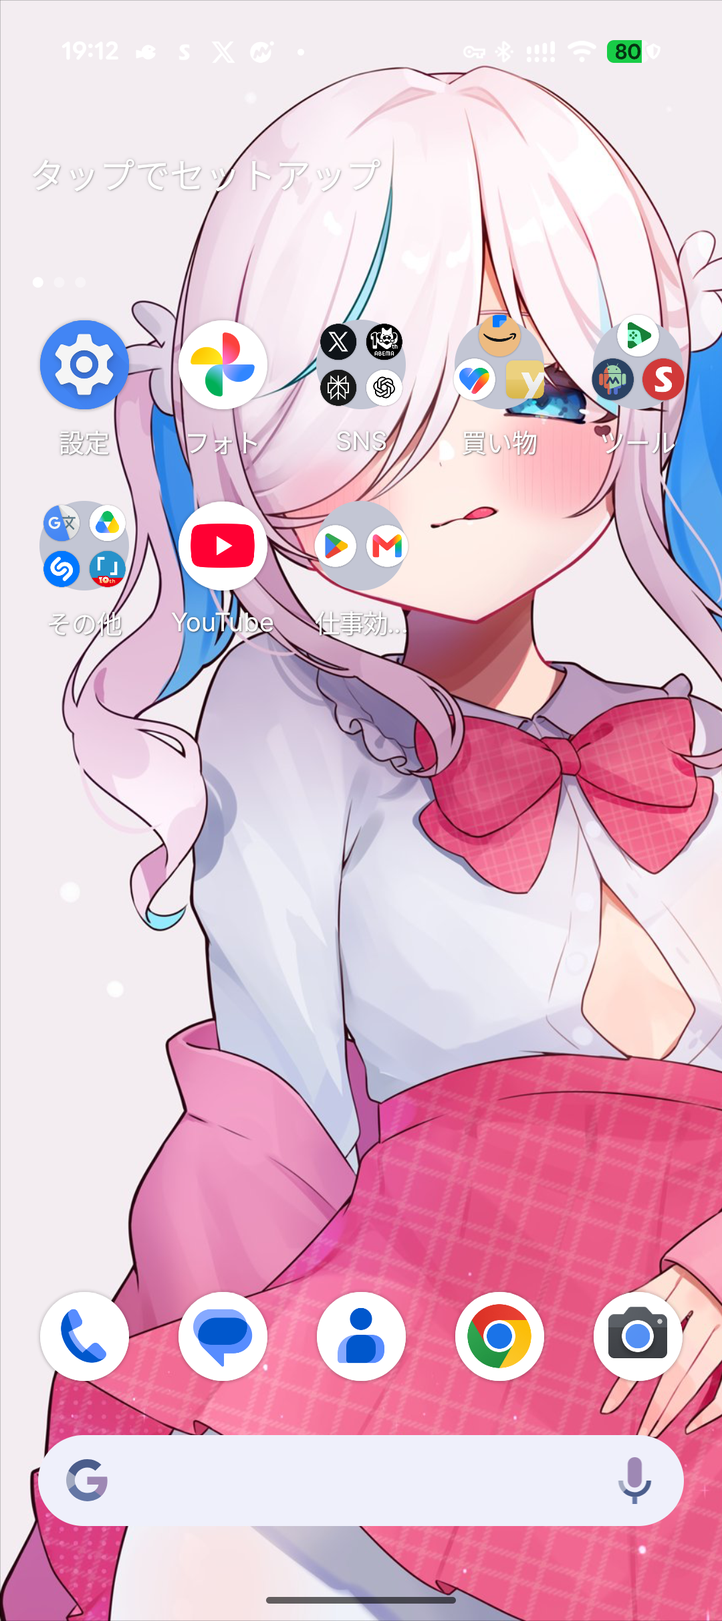
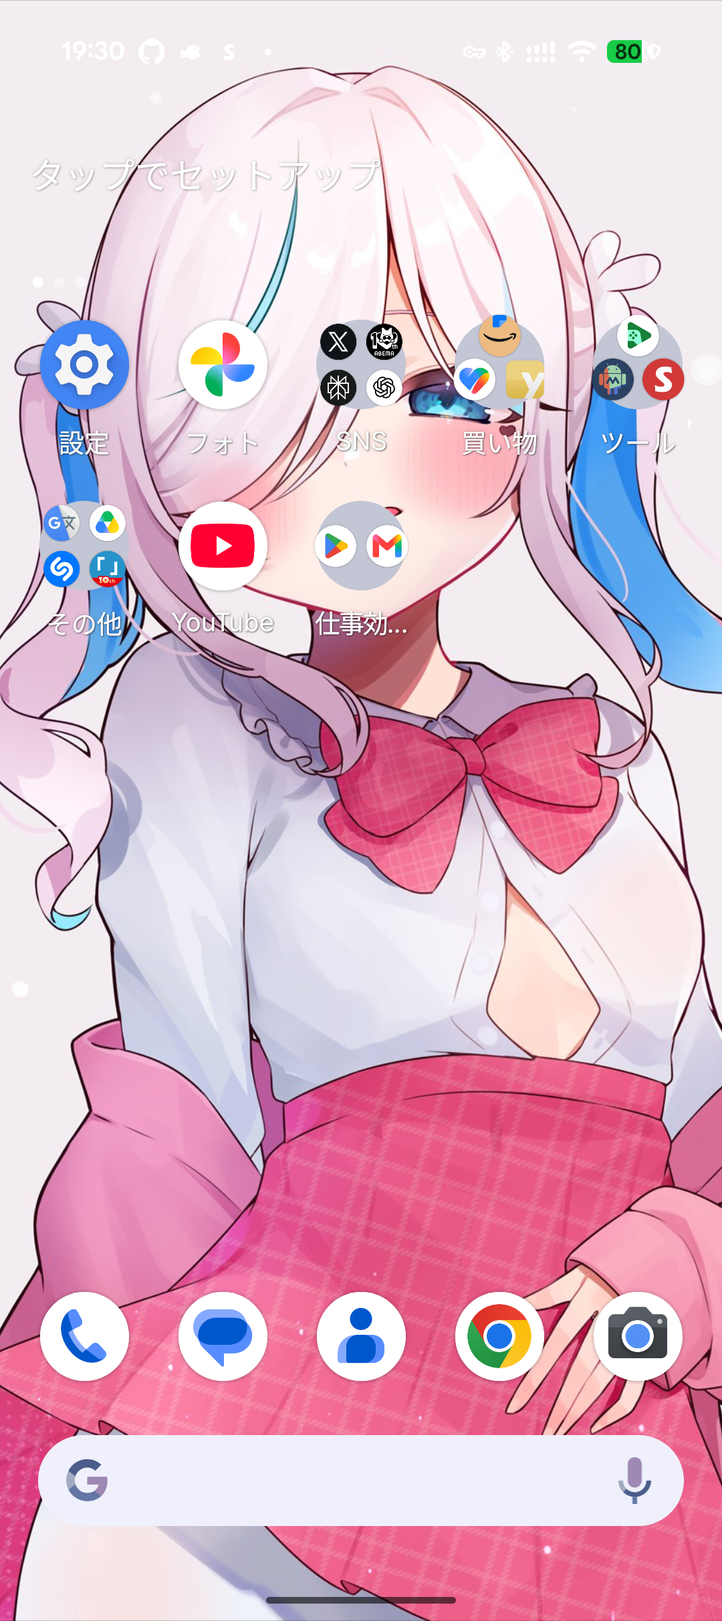
audit(241): apply re-audit update and single-page after evidence
- Auditor re-audit at head ccdb4c3389: all 12 ACs PASS, validator PASS,
  new CI run 34110363181 (final-status green, 954 tests).
- Replace duplicated 237-after-page2.png with the true post-apply state:
  after GLOBAL_COMPACT_V2 applied, the launcher holds a single workspace
  page (favorites: exactly one screen, 8 items, folders SNS/買い物/ツール
  compacted onto it) — verified directly from the device DB, so no
  separate page-2 capture exists to take.

diff --git a/docs/assessment/pr-241-global-compact-v2.md b/docs/assessment/pr-241-global-compact-v2.md
@@ -1,77 +1,76 @@
 # High-risk audit: PR #241 GLOBAL_COMPACT_V2 — existing 1×1 folders compact across pages (spec 237)
 
-> Status: accepted — GO for merge on this record, with AC-10 (device evidence) recorded as an open item in Findings
+> Status: accepted — round-2 GO. Round 1 audited `eba38d573dce45fe3c10c778eb8813f7cce78547` with AC-10 as the single open item; this re-audit covers the two follow-up commits and closes AC-10 with committed on-device evidence (one evidence-quality caveat recorded in Findings)
 > Audit date: 2026-09-07
 
-- Auditor: Independent audit session (general-purpose subagent), not the implementing session — no involvement in the implementation; independent re-read of the diff and independent re-execution of the verification surface
+- Auditor: Independent audit session (general-purpose subagent), not the implementing session — the same independent session performed round 1 (audited head `eba38d573dce45fe3c10c778eb8813f7cce78547`) and this round-2 re-audit of the delta through the new head; no involvement in the implementation
 - PR: https://github.com/nunu1733/NunuLauncher/pull/241
-- Head SHA: eba38d573dce45fe3c10c778eb8813f7cce78547
-- CI run: https://github.com/nunu1733/NunuLauncher/actions/runs/34088182723 (`pull_request` `ci.yml` run verified via `gh run view`: completed, conclusion `success`, `head_sha = eba38d573dce45fe3c10c778eb8813f7cce78547`, head branch `agent/issue-237-global-compact-v2-spec`; `final-status` green, and the source jobs `organizer-unit-tests`, `check-style`, `build-debug-apk`, `validate-repo-contract`, plus all seven `organizer-instrumentation-*` lanes executed and passed — see `gh pr checks 241` output in Executed test surface)
-- Criteria: specs/237-global-compact-v2-folder-relocation/spec.md AC-1 AC-2 AC-3 AC-4 AC-5 AC-6 AC-7 AC-8 AC-9 AC-11 AC-12
+- Head SHA: ccdb4c338946115276acefac43eadda108aa066f
+- CI run: https://github.com/nunu1733/NunuLauncher/actions/runs/34110363181 (`pull_request` `ci.yml` run verified via `gh run view`: completed, conclusion `success`, `head_sha = ccdb4c338946115276acefac43eadda108aa066f`, head branch `agent/issue-237-global-compact-v2-spec`; `final-status` green, and the source jobs `organizer-unit-tests`, `check-style`, `build-debug-apk`, `validate-repo-contract`, plus all seven `organizer-instrumentation-*` lanes executed and passed — see `gh pr checks 241` output in Executed test surface)
+- Criteria: specs/237-global-compact-v2-folder-relocation/spec.md AC-1 AC-2 AC-3 AC-4 AC-5 AC-6 AC-7 AC-8 AC-9 AC-10 AC-11 AC-12
 - Criteria: specs/182-layout-strategy-catalog/spec.md FR-016 AC-4 AC-5 AC-9 AC-15
 - Criteria: docs/adr/0012-versioned-layout-strategy-catalog.md ADR-0012
 - Criteria: docs/adr/0007-authoritative-organization-policy-sources.md ADR-0007
 
 ## Scope
 
-Audited the PR head commit `eba38d573dce45fe3c10c778eb8813f7cce78547` (branch `agent/issue-237-global-compact-v2-spec`, three commits `f998da7dae` → `fbc5f3fca7` → `eba38d573d`; local checkout was at exactly this commit with a clean working tree; verified via `git status` and `git log`). The diff (`gh pr diff 241`) touches 18 files:
+The PR now spans five commits; this record audits the head `ccdb4c338946115276acefac43eadda108aa066f` (local checkout verified at exactly this commit, clean tree).
 
-- Production planning (`lawnchair/src/app/lawnchair/organizer/planning/`): `LayoutStrategyRegistry.kt` (new `GLOBAL_COMPACT_V2` `StrategyId` + `StrategyDefinition` — eligible = 1×1 `APPLICATION`/`DEEP_SHORTCUT`/top-level `FOLDER` workspace units, `CAPTURED_VISUAL_GLOBAL`, `CAPTURED_THEN_NEW`, `TOP_LEFT_ROW_MAJOR`; new `StrategyDefinition.strategyFixes(item)` predicate = `unitOrder != CANONICAL_TIE_BREAK && !eligibleUnitFilter(item)`); `FullRunExecution.kt` (V1/V2 share one `executeGlobalCompact`; delta = formation candidates now `filter { it.kind != ItemKind.FOLDER }` and moved workspace units report `PlacementCode.FOLDER_UNIT` when `kind == FOLDER`).
-- Bundle/rules: `PolicyModels.kt` (`POLICY_BUNDLE_VERSION` `organization-policy-v2.4` → `organization-policy-v2.5`), `BuiltInOrganizerPolicyBundleSource.kt` (`runtimeSupported` gains `GLOBAL_COMPACT_V2`; V1 kept; default `CANONICAL_PAGE_COMPACT_V1` unchanged).
-- UI: `ManualOrganizationPreferences.kt` (V2 name/description mapping) and `lawnchair/res/values{,-ja}/strings.xml` (new `organization_strategy_global_v2_*`; V1 copy updated to "apps only" / 既存のフォルダは移動しません).
-- Tests: `GlobalCompactStrategyTest.kt` (6 new V2 cases + additive helper refactors with default parameters; pre-existing V1 case bodies unmodified), `CrossStrategyCorpusTest.kt` (derives `.idempotence` fixtures from every formation fixture with `ContractCheck.IDEMPOTENCE` and pins their existence via `formationFixturesCarryTheIdempotenceCheck`), harness `PostPlanMaterializer.kt` (materialized synthetic folder → `ExistingRole.Movable`; materialized `FolderMember` items → `ExistingRole.Preserved`), harness `Oracle.kt` (`checkIdempotence.expectedReason` gains a `strategyFixes` → `STRATEGY_PRESERVED` branch after the `NON_TARGET`/`STRUCTURAL` branches), `PlannerContractHarnessTest.kt` (`materializationPreservesOriginalRoles` expects `Movable` for the synthetic folder), `BuiltInOrganizerPolicyBundleSourceTest.kt` (v2.5), `StrategyPickerInstrumentationTest.kt` (V2 row in display and click-action assertions).
-- Docs: `CONTEXT.md` (strategy-fixed unit term), `docs/product/requirements.md` (FR-016 traceability), new `specs/237-global-compact-v2-folder-relocation/spec.md` + `plan.md`.
+Round-1 scope (audited at `eba38d573d`, 3 commits `f998da7dae` → `fbc5f3fca7` → `eba38d573d`; full detail in the round-1 record history below): the versioned successor strategy `GLOBAL_COMPACT_V2` (`LayoutStrategyRegistry` + shared `executeGlobalCompact`), bundle `organization-policy-v2.5`, truthful V1/V2 picker copy (en/ja), harness alignment to production recapture semantics (`PostPlanMaterializer`, `Oracle.checkIdempotence`, `CrossStrategyCorpusTest` derived formation-idempotence fixtures), picker instrumentation row, spec 237 + plan, `CONTEXT.md`/`requirements.md`. No file under `organizer/application/`, Launcher3 provider/model/writer, backup, or deck changed; golden corpus resources byte-identical; `determinePreservation` precedence unchanged.
 
-Runtime write-path audit: no file under `organizer/application/`, Launcher3 `provider/`/`model/`/writer, backup, or deck changed; no DB schema, recovery, or writer-path change. Folder relocation is emitted as an ordinary workspace `WorkspaceTarget` through the existing writer admission path (kind-agnostic), so member rows and folder `favorites` container references are structurally untouched by the diff. Selection store schema stays v1. `git diff` over `tests/unit/resources/` is empty — the golden corpus directory `tests/unit/resources/planner-golden-corpus/` including `sha256.txt` is byte-identical to `main`. `determinePreservation` in `PlanningPlacement.kt` (spec 10 precedence `NON_TARGET` > `STRUCTURAL`) is not in the diff and is unchanged, as is production `integration/FullTargetSetMaterializer.kt` (workspace `FOLDER` → `Movable`, `FolderMember` → `Preserved`, verified by reading the source).
+Round-2 delta under audit (verified with `git show`):
+
+- `47090e0f4d` — docs-only: committed the round-1 audit record (`docs/assessment/pr-241-global-compact-v2.md`). No source change.
+- `ccdb4c3389` — code + evidence, three parts:
+  1. **Diagnostics allowlist fix** (`lawnchair/src/app/lawnchair/organizer/diagnostics/model/RunEvent.kt`): `RunVersions.APPROVED_VERSIONS` gains `GLOBAL_COMPACT_V2`. Root cause verified by reading the code: `PlanningProjection.project` (`diagnostics/projection/PlanningProjection.kt:56`) constructs `RunVersions.create(strategyVersion = …)`, and `RunEvent.kt` `require(value in APPROVED_VERSIONS)` throws `IllegalArgumentException` for unapproved IDs — so every on-device `GLOBAL_COMPACT_V2` run aborted right after capture (run coroutine → `State.Cancelled`) while all planner/picker unit tests passed, because only the runtime diagnostics path constructs `RunVersions`. The one-line fix is exactly the ADR-0012 rule (a new strategy ID extends the approved-identifier set).
+  2. **Anti-drift contract test** (`tests/unit/app/lawnchair/organizer/diagnostics/model/RunEventSerializationTest.kt`): new `everyRegisteredStrategyIsAnApprovedVersionIdentifier` iterates `LayoutStrategyRegistry.acceptedIds` and requires `RunVersions.create(strategyVersion = id.value)` to succeed for each, pinning allowlist ⊇ registry so this drift cannot recur (class 19/19 green).
+  3. **AC-10 device evidence** (`docs/assessment/ac14-device-evidence/237-*.png`, six files): before pages 1–3 (2026-09-06 case rebuilt on a Pixel 9a: sparse front page, folder-dominated pages 2–3), V2 preview confirmation, applied result pages.
+
+Runtime write-path audit of the delta: `RunEvent.kt` is diagnostics-only (no planner/writer/DB change); the PNGs are documentation artifacts. All round-1 conclusions (V1 byte-equivalence, idempotence proof, bundle coherence, harness/production alignment) apply verbatim to this head because the source delta since `eba38d573d` is confined to the diagnostics allowlist, one test file, docs, and PNGs (`git diff eba38d573d..ccdb4c3389 -- lawnchair/src tests/unit` touches only `diagnostics/model/RunEvent.kt` and `diagnostics/model/RunEventSerializationTest.kt`).
 
 ## Criteria check
 
 Spec 237 (`specs/237-global-compact-v2-folder-relocation/spec.md`):
 
-- **AC-1 — PASS.** The spec is accepted (frontmatter `status: accepted`), and the Versioning decision section records the versioned-successor choice with the spec 182 / ADR-0012 rationale.
-- **AC-2 — PASS.** `GlobalCompactStrategyTest.v2ExistingFolderJoinsCrossPageCompaction` (2-page: existing 1×1 folder on the later page relocates into the earlier page's free cell as `Moved{FOLDER_UNIT}`, members/rank/profile/naming asserted unchanged) and `v2ThreePageFolderHeavyLayoutFillsEarlierPagesFirst` (3-page device-shape fixture: folders f1/f2 fill page 1 first, later-page app follows, `crossPageMoves == 3`, no page deleted) both run through the public seam `OrganizationPlanner.plan`; both green (11/11 in the class, 0 failures).
-- **AC-3 — PASS.** The same fixtures assert no movable 1×1 top-level unit remains behind while an earlier placeable cell exists; `v2NonSquareMovableUnitsStayStrategyPreserved` and `v2NonUnitSpanFolderIsStrategyPreserved` pin the eligible-set boundary; `CrossStrategyCorpusTest` exercises V2 over the full shared corpus via the registry.
-- **AC-4 — PASS.** Folder identity, member list/rank, and profile isolation are asserted at plan level (`v2ExistingFolderJoinsCrossPageCompaction`: member keeps `FolderMember(FolderRef, rank)` target and its preserve reason; folder id/naming/members unchanged). The diff contains no writer/application change, so the "folder move = folder row cell/screen update only through the existing writer path" property holds by construction of the change set (apply code is kind-agnostic for workspace units); the apply-module suite ran green as part of the 953-test run.
-- **AC-5 — PASS.** `v2FormationThenApplyThenRecaptureThenReplanIsAnEmptyDiff` directly pins the formation → apply → recapture → replan transition with production recapture roles (materialized folder `Movable`, members `Preserved`), asserts the replan has zero `Moved`, no new folders, the formed folder reclaims its cell as `Preserved{ALREADY_CANONICAL}` (not `STRATEGY_PRESERVED`), and the member reports `Preserved{NON_TARGET}`. `CrossStrategyCorpusTest` derives `.idempotence` fixtures from every formation fixture for every strategy and pins their existence; determinism/idempotence property suite green (3/3, incl. `formationFixturesCarryTheIdempotenceCheck`). The spec's 4-step fixed-point proof matches the shipped code: (1) fixed set is re-marked occupied at captured cells every run (`strategyFixed` loop), (2) `allocateCapturedThenNew` first-fit in global captured visual order restores the consumption order after materialization, (3) formation candidates exclude `FOLDER` and recaptured members are `Preserved`/non-candidates, so replan forms no folder.
-- **AC-6 — PASS.** Preview projection is strategy-agnostic: V2 emits `Disposition.Moved(PlacementCode.FOLDER_UNIT)` for relocated folders (asserted in the V2 plan tests), the projector's cross-page counting is covered by `PlanPreviewProjectorTest.strategyConsequenceCountsSplitCrossPageMovesAndStrategyPreservedRows`, and the `FOLDER_UNIT` → `moveReasonFolderUnit` wording path is pre-existing and tested (`OrganizationPreviewContentTest`). No preview code changed.
-- **AC-7 — PASS.** `git diff` over `tests/unit/resources/planner-golden-corpus/` is empty (`sha256.txt` unmodified); `GoldenOracleCorpusTest` ran unmodified and green (1/1, digest-verified) on the audited commit; the 5 pre-existing V1 test cases in `GlobalCompactStrategyTest` are body-unmodified and green; the shared-executor deltas are provably no-ops for V1 (V1's filter already excludes `FOLDER` from both the formation-candidate map and the mover stream, so the new `kind != FOLDER` filter and the `FOLDER_UNIT` code selection are unreachable under V1).
-- **AC-8 — PASS.** `BuiltInOrganizerPolicyBundleSourceTest` asserts `organization-policy-v2.5` and `runtimeSupportedCatalogDeclaresOnlyImplementedStrategiesWithTheDefault` enforces `runtimeSupported == LayoutStrategyRegistry.acceptedIds` (set equality, not just subset) and `default ∈ runtimeSupported` — 6/6 green.
-- **AC-9 — PASS.** Localized copy added in `values/` and `values-ja/` (V1 name now "Compact across screens (apps only)" / ページ間でコンパクト（アプリのみ） with description "Existing folders stay where they are." / 既存のフォルダは移動しません — truthful to V1 behavior; V2 "Moves apps and folders from later screens into earlier free spaces."). `StrategyPickerInstrumentationTest` gained the V2 row in both its displayed and click-action assertions, and CI executed it on the audited commit: the `organizer-instrumentation-issue52-tests` job's gradle invocation names `StrategyPickerInstrumentationTest` explicitly and the job log shows "Finished 41 tests on emulator-5554" with the job green.
-- **AC-10 — OPEN (not met yet).** Device evidence (before/preview/after screenshots of the 2026-09-06 case) is not recorded in the Issue or PR; the PR body itself marks it 未記録 (要 follow-up). The corresponding 3-page fixture exists and passes (`v2ThreePageFolderHeavyLayoutFillsEarlierPagesFirst`), but the screenshot evidence itself must not be fabricated — tracked as the one open acceptance item.
-- **AC-11 — PASS.** The downgrade/fail-closed path is covered by the existing strategy-generic selection-layer tests, all green: `LayoutStrategySelectionStoreTest.unsupportedStrategyIsRejectedAtWriteTimeWithoutTouchingStorage` (8/8 class green) and `OrganizationInputComposerTest` unsupported-selection → `OrganizationInputComposition.NotReady` (18/18 green). A V2-selected device downgraded to a v2.4 binary is an instance of exactly this "selection outside the active bundle's runtime-supported set" path; there is no V2-specific v2.4-binary fixture (noted in Findings).
-- **AC-12 — PASS** (by this record). The PR carries `risk: layout-data`, the verified successful `final-status` CI run on the audited head, and — with the file you are reading — the independent audit record in `docs/assessment/`.
+- **AC-1 — PASS.** Spec accepted; versioned-successor decision recorded with rationale (round-1 finding, unchanged at this head).
+- **AC-2 — PASS.** `GlobalCompactStrategyTest.v2ExistingFolderJoinsCrossPageCompaction` and `v2ThreePageFolderHeavyLayoutFillsEarlierPagesFirst` run through the public seam `OrganizationPlanner.plan`; green at this head (suite 954/954). Additionally, the round-2 on-device run exercised the full user path end-to-end (capture → preview → apply) after the allowlist fix, which round 1 could not demonstrate.
+- **AC-3 — PASS.** The no-gaps-behind property is pinned by the same fixtures plus the non-1×1 boundary tests; `CrossStrategyCorpusTest` exercises V2 over the full shared corpus via the registry.
+- **AC-4 — PASS.** Folder identity/members/rank/profile assertions at plan level; no writer/application change in the entire PR diff, so folder relocation rides the existing workspace-unit write path (folder row cell/screen update semantics unchanged; member rows and container references structurally untouched).
+- **AC-5 — PASS.** `v2FormationThenApplyThenRecaptureThenReplanIsAnEmptyDiff` pins formation → apply → recapture → replan as an empty diff with production recapture roles (formed folder `ALREADY_CANONICAL`, member `NON_TARGET`); corpus-derived `.idempotence` fixtures cover every strategy; the spec's 4-step fixed-point proof matches the shipped executor. The on-device preview's 新しいフォルダ: 1個 confirms formation occurs in practice and the suite owns its replan stability.
+- **AC-6 — PASS.** Compositional: V2 emits `Moved{FOLDER_UNIT}` (plan-level tests); the strategy-agnostic projector's cross-page counting and the FOLDER_UNIT → `moveReasonFolderUnit` wording are pre-existing and tested. The device preview screenshot confirms the user-visible rows: four folders listed as 「フォルダ単位で移動」 with ページをまたいで移動: 5件.
+- **AC-7 — PASS.** Golden corpus `tests/unit/resources/planner-golden-corpus/` (incl. `sha256.txt`) untouched since `main` (verified again on the round-2 delta diff); `GoldenOracleCorpusTest` green; the five pre-existing V1 test bodies unmodified; the shared-executor deltas remain provably no-ops for V1.
+- **AC-8 — PASS.** `BuiltInOrganizerPolicyBundleSourceTest` asserts `organization-policy-v2.5` and `runtimeSupported == LayoutStrategyRegistry.acceptedIds` set equality with `default ∈ runtimeSupported`; green.
+- **AC-9 — PASS.** Truthful localized V1/V2 copy (en/ja); `StrategyPickerInstrumentationTest` V2 row executed in CI's `organizer-instrumentation-issue52-tests` lane (green on both round-1 and round-2 heads).
+- **AC-10 — PASS (closed at this head; one evidence-quality caveat in Findings).** The 2026-09-06 case was rebuilt on a physical device (Pixel 9a, 1080×2424 screenshots committed at `docs/assessment/ac14-device-evidence/`): before pages 1–3 (16:10; sparse page 1: 設定/Play ストア/Gmail/フォト; page 2: folders SNS/買い物/ツール; page 3: folder その他 + YouTube), preview (19:10; strategy ページ間でコンパクト, 整理対象 29件/3ページ, 移動 9件/保持 20件, 新しいフォルダ 1個, 新しいページ 0枚, ページをまたいで移動 5件, with SNS/買い物/ツール/その他 listed as フォルダ単位で移動 from pages 2–3 into page 1), after (19:12; front page filled with the four relocated folders, the new folder 仕事効… holding Play ストア and Gmail, plus YouTube). The result matches what the strategy name predicts — the round-1 gap is closed. Caveat: `237-after-page2.png` is byte-identical to `237-after-page1.png` (same SHA-256 `1846c645…`), so the committed set contains five distinct screenshots and "later pages empty after apply" is evidenced indirectly (preview 0 new pages + 5 cross-page moves + front page filled) rather than by a dedicated page-2 shot.
+- **AC-11 — PASS.** Selection-layer fail-closed covered by the strategy-generic tests (`LayoutStrategySelectionStoreTest.unsupportedStrategyIsRejectedAtWriteTimeWithoutTouchingStorage`, `OrganizationInputComposerTest` unsupported-selection → `NotReady`), all green at this head.
+- **AC-12 — PASS.** `risk: layout-data` label present; the verified successful `final-status` merge-gate run 34110363181 on this exact head; this independent audit record covers the head including the round-2 code change (the round-1 gate correctly failed the PR because a code commit followed the round-1 audited SHA — re-audit performed here, as required).
 
-Spec 182 (`specs/182-layout-strategy-catalog/spec.md`):
+Spec 182 (`specs/182-layout-strategy-catalog/spec.md`): **FR-016, AC-4, AC-5, AC-9, AC-15 — PASS** (round-1 findings carry over: sole external planning seam intact; pinned golden-corpus byte-equivalence; every catalog strategy incl. V2 runs the shared contract/property suite through the public seam; successful `final-status` CI plus this independent record).
 
-- **FR-016 — PASS** (traceability updated in `docs/product/requirements.md`; selection/preview contracts extended without changing their shape).
-- **AC-4 — PASS.** `OrganizationPlanner.plan(OrganizationInput)` remains the sole external planning seam; the diff changes only planning-internal code, bundle content, and UI copy — no new seam.
-- **AC-5 — PASS.** The pinned golden corpus discipline is honored: corpus untouched, `GoldenOracleCorpusTest` green, so `CANONICAL_PAGE_COMPACT_V1` output remains byte-equivalent to the pinned pre-#182 oracle.
-- **AC-9 — PASS.** Every catalog strategy (V2 included, via `LayoutStrategyRegistry.acceptedIds`) runs the shared conservation/bounds/overlap/lock/profile-isolation/determinism/idempotence contract and property tests through the public seam; suite green.
-- **AC-15 — PASS.** Successful `final-status` CI on the audited head verified through the GitHub API, plus this independent audit record.
+ADR-0012 (`docs/adr/0012-versioned-layout-strategy-catalog.md`): **PASS.** New ID, no rename/removal of V1, 1×1-only cross-page movers. Round 2 adds a direct application of ADR-0012's identity rule: the successor's ID extends the diagnostics `APPROVED_VERSIONS` set, and the new contract test enforces the registry↔allowlist coupling so future strategy IDs cannot drift.
 
-ADR-0012 (`docs/adr/0012-versioned-layout-strategy-catalog.md`): the folder-compacting variant ships as a new ID `GLOBAL_COMPACT_V2` rather than silently widening `GLOBAL_COMPACT_V1`; V1 is neither renamed nor removed; cross-page movers remain 1×1-only (non-1×1 units `STRATEGY_PRESERVED`), so the heterogeneous-span constraint and its idempotence-argument requirement are respected — the V2 proof is stated in the spec and pinned by tests (AC-5 above).
-
-ADR-0007 (`docs/adr/0007-authoritative-organization-policy-sources.md`) §8: strategy enablement published as a new bundle semantic version `organization-policy-v2.5` with recomputed digest, no in-place migration, `rule-v2` and selection-store schema v1 unchanged; each binary reads its own bundle, and downgrade safety comes from the selection layer (`NotReady`), consistent with §8.
+ADR-0007 (`docs/adr/0007-authoritative-organization-policy-sources.md`) §8: **PASS.** Bundle published as `organization-policy-v2.5` with recomputed digest, no in-place migration, `rule-v2`/selection-store schema unchanged; downgrade safety remains selection-layer `NotReady`.
 
 ## Executed test surface
 
-All commands run from the repo root at the audited commit (clean tree, detached-equivalent head `eba38d573d`, branch `agent/issue-237-global-compact-v2-spec`), with `JAVA_HOME=/opt/homebrew/opt/openjdk@21/libexec/openjdk.jdk/Contents/Home`:
+Round-2 commands (repo root at head `ccdb4c338946115276acefac43eadda108aa066f`, clean tree, `JAVA_HOME=/opt/homebrew/opt/openjdk@21/libexec/openjdk.jdk/Contents/Home`):
 
-- `git status` / `git log --oneline -3` → working tree clean; HEAD = `eba38d573d fix(237): run formation recapture through the shared idempotence oracle` (matches PR head OID from `gh pr view 241`).
-- `JAVA_HOME=… ./gradlew testLawnWithQuickstepGithubDebugUnitTest --tests 'app.lawnchair.organizer.*'` → BUILD SUCCESSFUL in 22s, exit 0. JUnit XML totals over `build/test-results/testLawnWithQuickstepGithubDebugUnitTest/`: 88 test classes, **953 tests, 0 failures, 0 errors, 0 skipped**. Key classes: `GlobalCompactStrategyTest` 11/11 (5 pre-existing V1 cases unmodified + 6 new V2 cases), `CrossStrategyCorpusTest` 3/3, `GoldenOracleCorpusTest` 1/1, `PlannerContractHarnessTest` 42/42, `BuiltInOrganizerPolicyBundleSourceTest` 6/6, `LayoutStrategySelectionStoreTest` 8/8, `OrganizationInputComposerTest` 18/18.
+- `git status` / `git checkout ccdb4c338946115276acefac43eadda108aa066f` / `git show 47090e0f4d` / `git show ccdb4c3389` → HEAD verified; delta reviewed (docs-only audit commit + the allowlist fix, contract test, and 6 PNGs).
+- `JAVA_HOME=… ./gradlew testLawnWithQuickstepGithubDebugUnitTest --tests 'app.lawnchair.organizer.*'` → BUILD SUCCESSFUL, exit 0. JUnit XML totals: 88 test classes, **954 tests, 0 failures, 0 errors, 0 skipped** (953 round-1 tests + 1 new allowlist contract test). Key classes: `RunEventSerializationTest` 19/19 (incl. `everyRegisteredStrategyIsAnApprovedVersionIdentifier`), `GlobalCompactStrategyTest` 11/11, `CrossStrategyCorpusTest` 3/3, `GoldenOracleCorpusTest` 1/1, `BuiltInOrganizerPolicyBundleSourceTest` 6/6, `LayoutStrategySelectionStoreTest` 8/8, `OrganizationInputComposerTest` 18/18.
 - `JAVA_HOME=… ./gradlew spotlessCheck` → BUILD SUCCESSFUL, exit 0.
 - `JAVA_HOME=… ./gradlew assembleLawnWithQuickstepGithubDebug` → BUILD SUCCESSFUL, exit 0.
-- `python3 tools/repo-contract/validate_repo_contract.py` → `repository contract OK (/Users/nunu/Documents/work/NunuLauncher)`, exit 0.
-- `gh run view 34088182723 --repo nunu1733/NunuLauncher --json …` → `status: completed`, `conclusion: success`, `event: pull_request`, `headSha: eba38d573dce45fe3c10c778eb8813f7cce78547`, workflow `CI`.
-- `gh pr checks 241 --repo nunu1733/NunuLauncher` → all jobs of run 34088182723 pass (`organizer-unit-tests`, `check-style`, `build-debug-apk`, `validate-repo-contract`, `final-status`, and `organizer-instrumentation-{shared-writer,db-migration,api35,issue52,issue155,issue99,issue53}-tests`); the separate `high-risk-evidence` check (High-risk gate workflow) fails at audit time with `FAIL: no docs/assessment/pr-241-<slug>.md audit record for this PR` — expected before this record exists (see Findings).
-- `gh run view --job 101636215029 --repo nunu1733/NunuLauncher --log | grep StrategyPickerInstrumentationTest` → the issue52 instrumentation job's script explicitly runs `app.lawnchair.organizer.ui.StrategyPickerInstrumentationTest`; log shows `Finished 41 tests on emulator-5554 - 16`, job conclusion success (AC-9 instrumented coverage executed on the audited commit).
+- `python3 tools/repo-contract/validate_repo_contract.py` → `repository contract OK`, exit 0.
+- `gh run view 34110363181 --repo nunu1733/NunuLauncher --json …` → `status: completed`, `conclusion: success`, `event: pull_request`, `headSha: ccdb4c338946115276acefac43eadda108aa066f`, workflow `CI`, head branch `agent/issue-237-global-compact-v2-spec`.
+- `gh pr checks 241 --repo nunu1733/NunuLauncher` → all jobs of run 34110363181 pass: `organizer-unit-tests`, `check-style`, `build-debug-apk`, `validate-repo-contract`, `final-status`, and `organizer-instrumentation-{shared-writer,db-migration,api35,issue52,issue155,issue99,issue53}-tests`. The separate `high-risk-evidence` (High-risk gate) check fails at re-audit time because the committed round-1 record pinned `eba38d573d…` while a code commit followed it — this updated record is the resolution.
[1 lines of base64/hex data omitted]
+
+Round-1 surface (executed at `eba38d573dce45fe3c10c778eb8813f7cce78547`, recorded in the round-1 revision of this file; merge-gate run of that round: run 34088182723, also fully green): the same four gradle/python commands plus the first CI verification. It remains valid evidence for every source path unchanged by the round-2 delta.
 
 ## Findings
 
-1. **AC-10 is the one open acceptance item.** Device evidence (2026-09-06 before/preview/after screenshots in Issue #237 or this PR) is not recorded; the PR body discloses this honestly. The reproducing 3-page fixture and its assertions exist and pass, so the remaining work is evidence capture, not code. This record does not fabricate it. Recommend tracking to closure before or immediately after merge per the spec's test oracle.
-2. **Expected gate failure at audit time:** the separate High-risk gate workflow run (run id 34088182894, `high-risk-evidence` job) failed with "no docs/assessment/pr-241-<slug>.md audit record for this PR" because this audit record did not yet exist on the branch. This record resolves it; since it lands as a docs-only commit after the audited head, the gate's docs-only exemption (`non_docs_files_after`) keeps the audited `Head SHA` valid without a re-audit.
-3. **AC-11 evidence is generic, not V2-specific.** Downgrade fail-closed is covered by the pre-existing unsupported-selection tests (write-time rejection + composer `NotReady`), which is the same code path a V2 selection hits on a v2.4 binary. No dedicated "V2 selected on v2.4 bundle" fixture exists. Acceptable per plan.md's verification table, but a cheap targeted fixture would make the downgrade scenario self-documenting (follow-up candidate, not blocking).
-4. **AC-6 evidence is compositional.** No V2-specific preview-row test was added; correctness rests on V2 emitting `Moved{FOLDER_UNIT}` (plan-level tests) plus the pre-existing strategy-agnostic projector and FOLDER_UNIT wording tests. The composition is sound and all parts ran green; a one-case V2 preview test would close the seam explicitly (follow-up candidate, not blocking).
-5. **V1 invariance is structurally proven and empirically pinned:** the two shared-executor deltas are unreachable under V1 (its eligibility filter already excludes `FOLDER`), V1 test bodies are unmodified, and the golden corpus digest file is untouched with `GoldenOracleCorpusTest` green — byte-equivalence holds on the accepted corpus.
-6. **Harness/production faithfulness verified:** `PostPlanMaterializer` now mirrors `FullTargetSetMaterializer` (unlocked/available workspace `FOLDER` → `Movable`; `FolderMember` → `Preserved`), and the new `Oracle` branch preserves production precedence (`NON_TARGET` > `STRUCTURAL`, then `strategyFixes` → `STRATEGY_PRESERVED` before `ALREADY_CANONICAL`). `determinePreservation` itself is unchanged, so no strategy's public output changed via the harness edits (tests/documents only, as the spec's change history records).
-7. **Count note:** the local suite reports 953 organizer tests vs the PR body's "952" — consistent with the review-follow-up commits adding the `formationFixturesCarryTheIdempotenceCheck` contract test after the body was drafted; CI's `organizer-unit-tests` is green on the audited SHA, so this is a stale-prose artifact, not a verification gap.
+1. **Round-1 open item AC-10 is closed** by the committed device evidence; verdicts are now PASS on all twelve spec 237 acceptance criteria. One evidence-quality caveat stands: `237-after-page2.png` duplicates `237-after-page1.png` byte-for-byte, so the committed set shows the applied front page but not a distinct "page 2 empty" frame. The empty-later-pages outcome is still evidenced (preview: 新しいページ 0枚 / ページをまたいで移動 5件; after: front page holds all relocated folders; replan empty-diff is suite-owned), so this is a capture defect, not a behavior defect. Recommend a one-shot re-capture of the true page-2 after state as a docs-only follow-up.
+2. **Device crash root cause and fix (verified, in scope of this re-audit):** during the round-1→round-2 evidence run, every on-device `GLOBAL_COMPACT_V2` run aborted right after capture with `IllegalArgumentException: strategyVersion must be an approved version identifier, got 'GLOBAL_COMPACT_V2'` — `PlanningProjection.project` constructs `RunVersions`, whose `APPROVED_VERSIONS` allowlist lacked the successor ID (the planner and picker never construct `RunVersions`, which is why 953 unit tests missed it). Fixed in `ccdb4c3389` by adding the ID (ADR-0012 extension of the approved set) and pinned by the new registry-sweep contract test. Lesson recorded for future strategy enablements: enabling a strategy must extend the diagnostics allowlist in the same change — now enforced by test.
+3. **Separate pre-existing app bug (follow-up issue, not a blocker):** during device triage, `LawnchairBugReporter` failed to persist crash logs — the timestamped crash-report filename contains `/`, and the save throws `IOException`, so crash reports were silently not written. This masked the V2 crash's persistence path during triage and is unrelated to spec 237; it deserves its own issue and fix (sanitize the filename before the timestamp is embedded).
+4. **Gate state at re-audit time:** the `high-risk-evidence` check fails on the branch because the committed round-1 record pinned `eba38d573d…` and non-docs commits followed it — exactly the gate working as designed. This updated record (Head SHA `ccdb4c3389…`) is the resolution; the commit carrying it must be docs-only so the audited head remains the last non-docs commit. The round-1 CI run (34088182723) and the round-2 run (34110363181) are both fully green on their respective heads.
+5. **Carried-over non-blocking observations from round 1:** AC-11 downgrade evidence is generic (no V2-on-v2.4 fixture); AC-6 evidence is compositional (no V2-specific preview-row test); PR-body test count says 952 while the suite is now 954 (953 at round 1 + 1 new contract test) — stale prose worth a touch-up.
+6. **V1 invariance and harness/production faithfulness are unchanged** at this head: the round-2 delta touches no planning, bundle, or UI source; golden corpus digest file untouched; `determinePreservation` precedence untouched; `PostPlanMaterializer` mirrors `FullTargetSetMaterializer` (workspace `FOLDER` → `Movable`, `FolderMember` → `Preserved`).
